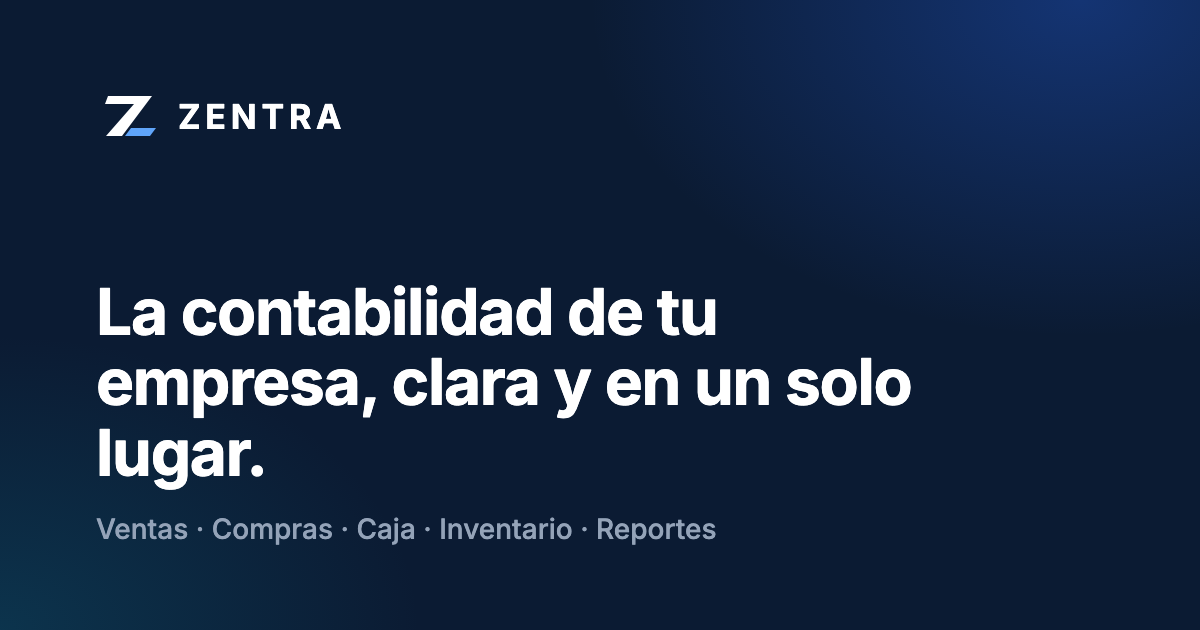
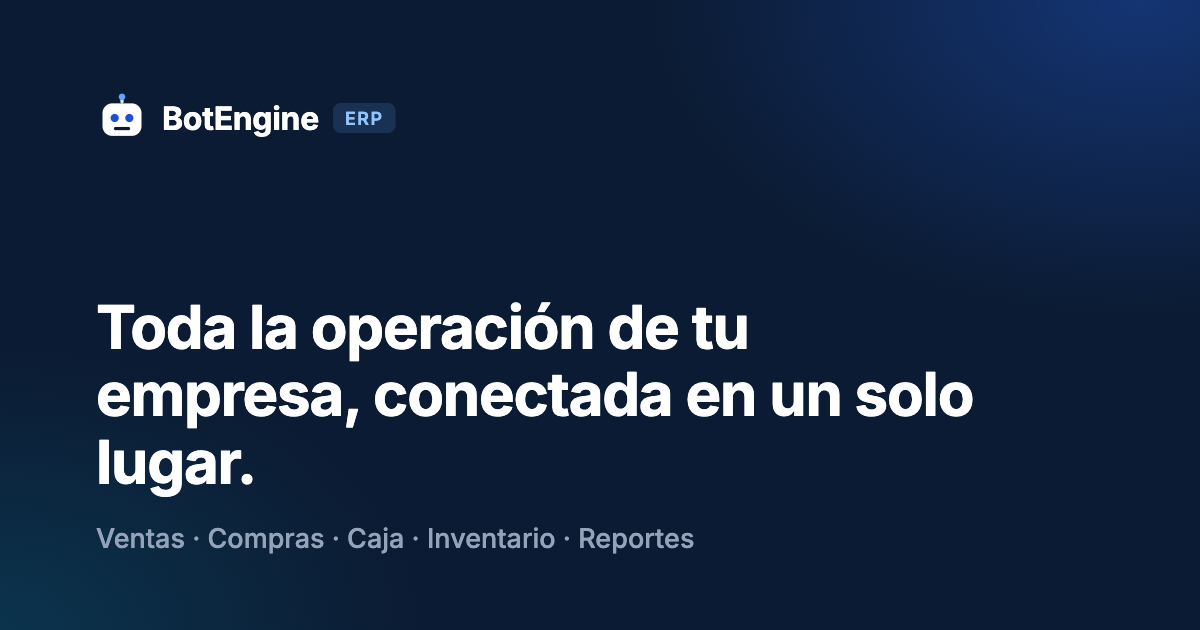
Marca BotEngine ERP en el panel y sin llamadas a medicinas
- Logo, favicon, ícono de iPhone e imagen para compartir con la nueva marca;
  se eliminan los logos de Zentra.
- Ventas y compras ya no piden /api/medicinas (no existe en esta edición)
  ni ofrecen el tipo Medicina; se quita del filtro de reportes.
- Gastos: no reportar como error que aún no haya datos guardados.

Changed region(s): [[0.0617, 0.4524, 0.8325, 0.7841], [0.0617, 0.8143, 0.6167, 0.8746], [0.0617, 0.1508, 0.3392, 0.2413]]

diff --git a/js/ventas.js b/js/ventas.js
@@ -6,7 +6,6 @@ const VentasModule = {
     state: {
         ventas: [],
         receptores: [],
-        medicinas: [],
         articulos: [],
         items: [],
         receptorId: '',
@@ -41,10 +40,9 @@ const VentasModule = {
         const requests = await Promise.allSettled([
             this.apiRequest('/api/ventas'),
             this.apiRequest('/api/ventas/receptores'),
-            this.apiRequest('/api/medicinas'),
             this.apiRequest('/api/codigos-articulos')
         ]);
-        const [ventasResult, receptoresResult, medicinasResult, articulosResult] = requests;
+        const [ventasResult, receptoresResult, articulosResult] = requests;
 
         if (ventasResult.status === 'fulfilled') {
             this.state.ventas = ventasResult.value.ventas || [];
@@ -53,18 +51,6 @@ const VentasModule = {
         }
         if (receptoresResult.status === 'fulfilled') {
             this.state.receptores = receptoresResult.value.receptores || [];
-        }
-        if (medicinasResult.status === 'fulfilled') {
-            this.state.medicinas = (medicinasResult.value.medicinas || []).map(medicina => ({
-                id: String(medicina.id),
-                nombre: medicina.nombre,
-                codigo: medicina.codigo_interno || medicina.codigo_externo || medicina.codigo_barra || '',
-                precio: Number(medicina.precio_venta ?? 0),
-                stock: Number(medicina.cantidad ?? 0),
-                seccion: medicina.seccion || medicina.categoria || '',
-                familia: medicina.familia || '',
-                subfamilia: medicina.subfamilia || ''
-            }));
         }
         if (articulosResult.status === 'fulfilled') {
             this.state.articulos = (articulosResult.value.articulos || []).map(articulo => ({
@@ -81,7 +67,7 @@ const VentasModule = {
 
         requests.slice(1).forEach((result, index) => {
             if (result.status === 'rejected') {
-                const names = ['receptores', 'medicinas', 'artículos'];
+                const names = ['receptores', 'artículos'];
                 this.notify(`No se pudieron cargar ${names[index]}: ${result.reason.message}`, 'warning');
             }
         });
@@ -233,8 +219,8 @@ const VentasModule = {
         this.renderItems();
     },
 
-    getCatalog(type) {
-        return type === 'medicina' ? this.state.medicinas : this.state.articulos;
+    getCatalog() {
+        return this.state.articulos;
     },
 
     getFilterOptions(item, field) {
@@ -322,7 +308,6 @@ const VentasModule = {
             return `<tr>
                 <td><select class="form-input" onchange="VentasModule.updateItem(${index}, 'tipo', this.value)">
                     <option value="articulo" ${item.tipo === 'articulo' ? 'selected' : ''}>Artículo</option>
-                    <option value="medicina" ${item.tipo === 'medicina' ? 'selected' : ''}>Medicina</option>
                 </select></td>
                 <td><div class="concept-search"><div class="concept-search-input"><i class="fas fa-search"></i>
                     <input id="saleConceptSearch-${index}" class="form-input" type="search" autocomplete="off" placeholder="Buscar por nombre o código..."

diff --git a/js/compras.js b/js/compras.js
@@ -6,7 +6,6 @@ const ComprasModule = {
     state: {
         compras: [],
         proveedores: [],
-        medicinas: [],
         articulos: [],
         items: [],
         initialized: false
@@ -42,23 +41,13 @@ const ComprasModule = {
 
     async loadData() {
         try {
-            const [comprasData, proveedoresData, medicinasData, articulosData] = await Promise.all([
+            const [comprasData, proveedoresData, articulosData] = await Promise.all([
                 this.apiRequest('/api/compras'),
                 this.apiRequest('/api/proveedores'),
-                this.apiRequest('/api/medicinas').catch(() => ({ medicinas: [] })),
                 this.apiRequest('/api/codigos-articulos')
             ]);
             this.state.compras = comprasData.compras || [];
             this.state.proveedores = proveedoresData.proveedores || [];
-            this.state.medicinas = (medicinasData.medicinas || []).map(medicina => ({
-                id: String(medicina.id),
-                nombre: medicina.nombre,
-                codigo: medicina.codigo_interno || medicina.codigo_externo || medicina.codigo_barra || '',
-                precio: Number(medicina.precio_costo ?? medicina.precio ?? 0),
-                seccion: medicina.seccion || medicina.categoria || '',
-                familia: medicina.familia || '',
-                subfamilia: medicina.subfamilia || ''
-            }));
             this.state.articulos = (articulosData.articulos || []).map(articulo => ({
                 id: String(articulo.id),
                 nombre: articulo.nombre_articulo,
@@ -222,8 +211,8 @@ const ComprasModule = {
         this.renderItems();
     },
 
-    getCatalog(tipo) {
-        return tipo === 'medicina' ? this.state.medicinas : this.state.articulos;
+    getCatalog() {
+        return this.state.articulos;
     },
 
     getFilterOptions(item, field) {
@@ -328,7 +317,6 @@ const ComprasModule = {
                     <td>
                         <select class="form-input" onchange="ComprasModule.updateItem(${index}, 'tipo', this.value)">
                             <option value="articulo" ${item.tipo === 'articulo' ? 'selected' : ''}>Artículo</option>
-                            <option value="medicina" ${item.tipo === 'medicina' ? 'selected' : ''}>Medicina</option>
                         </select>
                     </td>
                     <td>

diff --git a/index.html b/index.html
@@ -5,7 +5,7 @@
     <meta name="viewport" content="width=device-width, initial-scale=1, viewport-fit=cover, interactive-widget=resizes-content">
     <meta name="theme-color" content="#0b1b33">
     <meta name="robots" content="noindex, nofollow">
-    <title>Zentra · Panel</title>
+    <title>Panel · BotEngine ERP</title>
     <link rel="icon" href="img/favicon.svg" type="image/svg+xml">
     <link rel="apple-touch-icon" href="img/apple-touch-icon.png">
     <link rel="preconnect" href="https://fonts.googleapis.com">
@@ -23,8 +23,8 @@
                 <i class="fas fa-xmark" aria-hidden="true"></i>
             </button>
             <div class="logo-container brand">
-                <img src="img/zentra-mark-light.svg" alt="" class="brand-mark" width="32" height="32">
-                <span class="brand-name">Zentra</span>
+                <img src="img/botengine-mark-light.svg" alt="" class="brand-mark" width="32" height="32">
+                <span class="brand-name">BotEngine <span class="brand-sub">ERP</span></span>
             </div>
             <nav class="nav-menu">
                 <a href="#" class="nav-item active" data-page="dashboard">
@@ -466,7 +466,6 @@
                                     <option value="todos" selected>📋 Todos</option>
                                     <option value="compras">🛒 Compras</option>
                                     <option value="ventas">💳 Ventas</option>
-                                    <option value="medicinas">💊 Medicinas</option>
                                     <option value="servicios">🏥 Servicios</option>
                                 </select>
                             </div>

diff --git a/css/theme.css b/css/theme.css
@@ -1,5 +1,5 @@
 /* ============================================
-   ZENTRA THEME
+   BOTENGINE ERP THEME
    Capa visual que se carga después de style.css.
    Unifica tipografía, color, superficies y componentes
    sin cambiar la estructura de los módulos.
@@ -115,8 +115,19 @@ td,
     color: #fff;
     font-size: 17px;
     font-weight: 700;
-    letter-spacing: 0.14em;
-    text-transform: uppercase;
+    letter-spacing: -0.01em;
+}
+
+.brand-name .brand-sub {
+    margin-left: 2px;
+    padding: 2px 7px;
+    border-radius: 6px;
+    background: rgba(96, 165, 250, 0.16);
+    color: #93c5fd;
+    font-size: 11px;
+    font-weight: 600;
+    letter-spacing: 0.08em;
+    vertical-align: 2px;
 }
 
 .nav-menu {

diff --git a/js/config.js b/js/config.js
@@ -1,5 +1,5 @@
 // ============================================
-// CONFIGURACIÓN DE STOCK FLOW
+// CONFIGURACIÓN DE BOTENGINE ERP
 // ============================================
 
 const CONFIG = {
@@ -7,9 +7,9 @@ const CONFIG = {
     // INFORMACIÓN DE LA APLICACIÓN
     // ============================================
     APP: {
-        name: 'Zentra',
+        name: 'BotEngine ERP',
         version: '1.0.0',
-        description: 'Zentra - Sistema Médico Integral',
+        description: 'BotEngine ERP - Gestión empresarial',
         author: 'Tu Empresa',
         releaseDate: '2026-03-23'
     },

diff --git a/js/gastos-servicios.js b/js/gastos-servicios.js
@@ -35,8 +35,8 @@ class GastosServiciosModule {
         this.setDefaultPeriod();
     }
 
+    // Sin datos guardados todavía: empezar con listas vacías.
     loadDemoData() {
-        console.error('❌ ERROR: No hay datos de gastos disponibles en localStorage');
         this.state.conceptos = [];
         this.state.proveedores = [];
         this.state.pagos = [];

diff --git a/js/app.js b/js/app.js
@@ -1209,5 +1209,5 @@ async function refreshUserProfile() {
 }
 
 // Initialize the application
-console.log('Zentra v1.0');
+console.log('BotEngine ERP v1.0');
 console.log('Demo Mode - All transactions are simulated');
